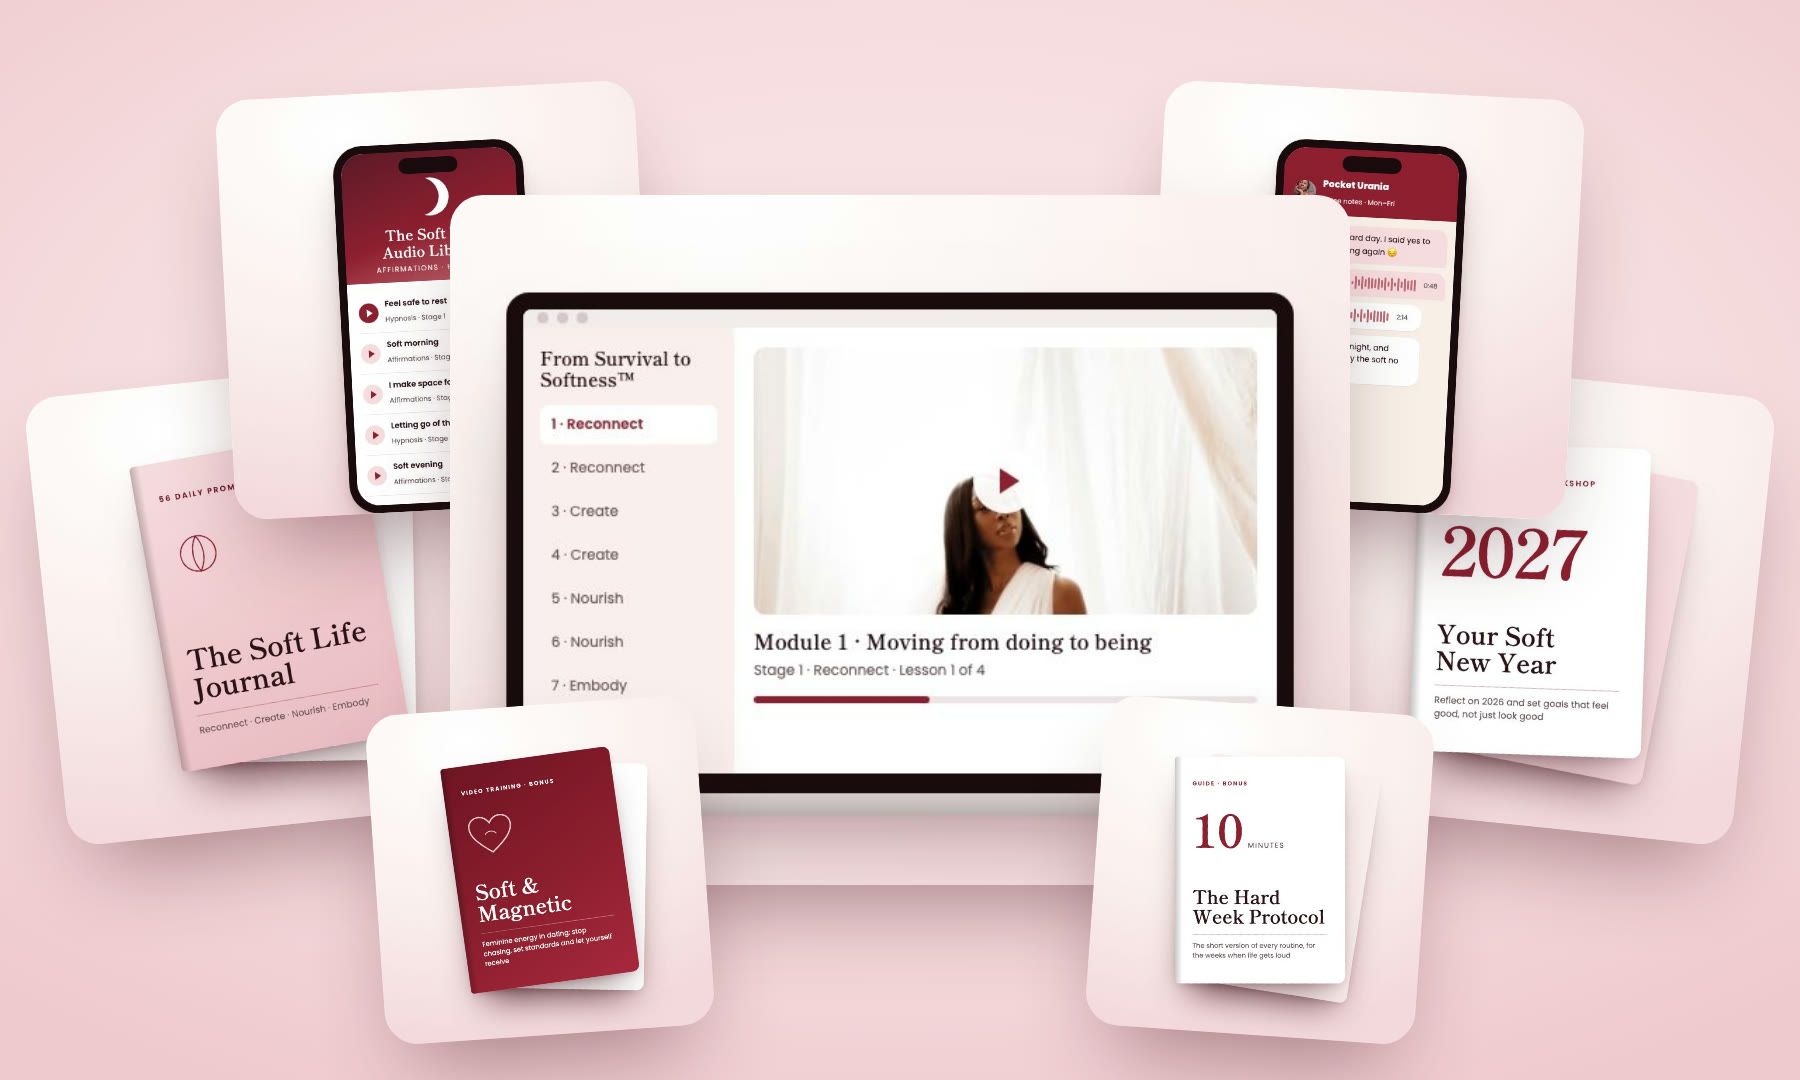
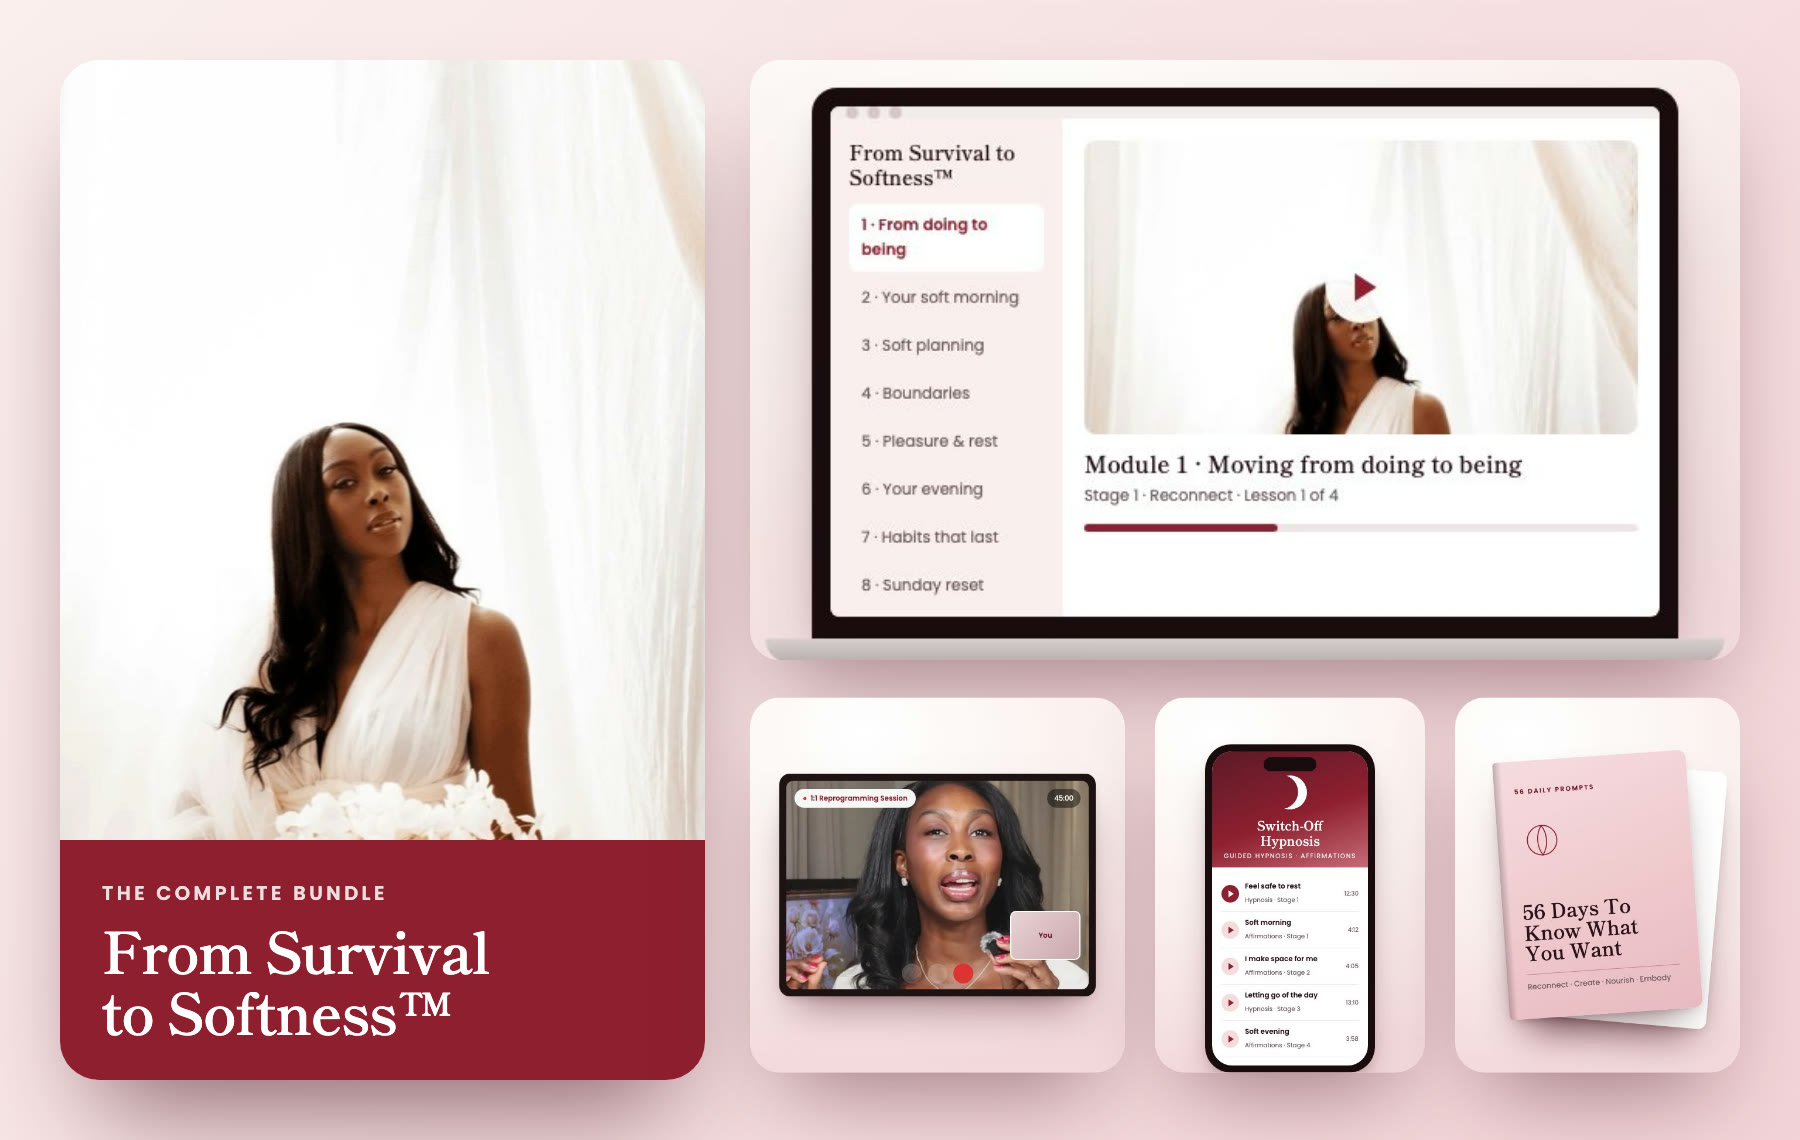
Benefit-led bonus names, Reprogramming Session, Josh-style label and gap

diff --git a/index.html b/index.html
@@ -35,7 +35,7 @@ p{margin:0 0 14px}
 .center{text-align:center}
 
 /* hero: centered like Josh's replay page, the video is the centre of the screen */
-.hero{padding:44px 0 56px;background:radial-gradient(1200px 520px at 50% -10%,#fbe7ea 0%,rgba(251,231,234,0) 70%)}
+.hero{padding:44px 0 34px;background:radial-gradient(1200px 520px at 50% -10%,#fbe7ea 0%,rgba(251,231,234,0) 70%)}
 .hero-in{text-align:center;max-width:980px}
 .kicker{font:500 13px/1.4 Poppins;letter-spacing:.14em;text-transform:uppercase;color:var(--red);margin:0 0 18px}
 .kicker i{font-style:normal;color:var(--rose);margin:0 6px}
@@ -215,7 +215,7 @@ footer{padding:30px 20px 44px;text-align:center;font-size:13px;color:var(--mute)
 
 <header class="hero">
   <div class="wrap hero-in">
-    <p class="kicker"><span class="long">From Survival to Softness™ <i>·</i> </span>8-week program <i>·</i> Starts Saturday 21 November</p>
+    <p class="kicker">Exclusive Message From Urania</p>
     <p class="kicker2">FAQ included below</p>
     <h1>Stop Living In Survival Mode: The 4-Stage Method That Helps You <em>Switch Off</em>, Put Yourself First &amp; Feel Soft And Feminine In Just 8 Weeks</h1>
     <p class="lead">…without giving up your ambition, your goals or the people who count on you.</p>
@@ -243,21 +243,21 @@ footer{padding:30px 20px 44px;text-align:center;font-size:13px;color:var(--mute)
 
       <div class="chk"><h3><span class="k">The 8-Week From Survival to Softness™ Program</span></h3><p>My signature program, where I take you through the 4 stages step by step: <b>Reconnect</b> (come back into your body with breathwork, EFT tapping and your Soft Morning Routine), <b>Create</b> (make space for yourself with the Soft Planning Method, a realistic weekly schedule and boundaries you can say out loud), <b>Nourish</b> (pleasure, rest, real me-time and an evening routine that helps you unwind) and <b>Embody</b> (habits without pressure, your Soft Sunday Reset and a plan for busy weeks). 8 modules, 6 live group coaching sessions with me, and you finish with your own Soft Life Blueprint. ($2,997 Value)</p></div>
 
-      <div class="chk"><h3><span class="k">BONUS #1:</span> A 45-Minute 1:1 Session With Me</h3><p>Just you and me. We look at where you are right now, what keeps you on hard mode and how to shape your Soft Life Blueprint around your real life. ($397 Value)</p></div>
+      <div class="chk"><h3><span class="k">BONUS #1:</span> Your Private 1:1 Subconscious Reprogramming Session With Me</h3><p>45 minutes, just you and me. Imagine the thing that's been holding you back, finally gone. You pick the topic: self-worth, receiving, love or money, and we work on the belief underneath it. ($397 Value)</p></div>
 
-      <div class="chk"><h3><span class="k">BONUS #2:</span> Pocket Urania <span class="only">First 7 women only</span></h3><p>8 weeks of voice-note access to me between the live sessions. When something comes up on a Tuesday, you don't have to wait for the next call. ($1,500 Value)</p></div>
+      <div class="chk"><h3><span class="k">BONUS #2:</span> Pocket Urania: Send Me A Voice Note Whenever You Need Me <span class="only">First 7 women only</span></h3><p>8 weeks of voice-note access to me between the live sessions. When something comes up on a Tuesday, you don't have to wait for the next call. ($1,500 Value)</p></div>
 
-      <div class="chk"><h3><span class="k">BONUS #3:</span> The Soft Life Audio Library</h3><p>New feminine energy affirmations for each stage, morning and evening, plus 4 guided hypnosis sessions to listen to before sleep. My guided meditations have over 1 million views on YouTube, and these are made only for this program. ($497 Value)</p></div>
+      <div class="chk"><h3><span class="k">BONUS #3:</span> Switch-Off Hypnosis: Fall Asleep Calm Instead Of Replaying Your To-Do List</h3><p>4 guided hypnosis sessions to listen to in bed, plus feminine energy affirmations for every stage, morning and evening. My guided meditations have over 1 million views on YouTube, and these are made only for this program. ($497 Value)</p></div>
 
-      <div class="chk"><h3><span class="k">BONUS #4:</span> Soft &amp; Magnetic: Feminine Energy In Dating</h3><p>How to stop chasing, set standards without being hard, and let yourself receive. For the woman who is single, dating or wants more softness in her relationship. ($297 Value)</p></div>
+      <div class="chk"><h3><span class="k">BONUS #4:</span> Soft &amp; Magnetic: How To Stop Chasing And Let Love Come To You</h3><p>How to stop chasing, set standards without being hard, and let yourself receive. For the woman who is single, dating or wants more softness in her relationship. ($297 Value)</p></div>
 
-      <div class="chk"><h3><span class="k">BONUS #5:</span> Your Soft New Year</h3><p>A guided reflection on the year you just had, and my live Feminine Goal Setting Workshop, so you start 2027 with goals that feel good, not just look good. ($297 Value)</p></div>
+      <div class="chk"><h3><span class="k">BONUS #5:</span> Start 2027 Soft: Set Goals That Don't Burn You Out</h3><p>A guided reflection on the year you just had, and my live Feminine Goal Setting Workshop, so you start 2027 with goals that feel good, not just look good. ($297 Value)</p></div>
 
-      <div class="chk"><h3><span class="k">BONUS #6:</span> The Soft Calendar Method</h3><p>I show you my own Google Calendar and how I plan my week with soft structure: deep work, walks, me-time and rest, all with room to breathe. ($47 Value)</p></div>
+      <div class="chk"><h3><span class="k">BONUS #6:</span> My Soft Calendar: Plan A Week That Finally Has Room For You</h3><p>I show you my own Google Calendar and how I plan my week with soft structure: deep work, walks, me-time and rest, all with room to breathe. ($47 Value)</p></div>
 
-      <div class="chk"><h3><span class="k">BONUS #7:</span> The Hard Week Protocol</h3><p>The 10-minute version of every routine, for the weeks when life gets loud, so one busy week never undoes everything you built. ($97 Value)</p></div>
+      <div class="chk"><h3><span class="k">BONUS #7:</span> The Hard Week Protocol: Stay Soft Even In Your Busiest Weeks</h3><p>The 10-minute version of every routine, for the weeks when life gets loud, so one busy week never undoes everything you built. ($97 Value)</p></div>
 
-      <div class="chk"><h3><span class="k">BONUS #8:</span> The Soft Life Journal</h3><p>56 prompts, one for every day of the 8 weeks, following the 4 stages. ($47 Value)</p></div>
+      <div class="chk"><h3><span class="k">BONUS #8:</span> 56 Days To Know What You Actually Want</h3><p>A journal prompt for every day of the 8 weeks, so you stop guessing what you need and start hearing yourself again. ($47 Value)</p></div>
 
       <div class="chk"><h3><span class="k">YOU ALSO GET:</span> The Soft Circle Community (Lifetime Access)</h3><p>Doing this alone is how most of us ended up in survival mode. When you join, you also get a place in the Soft Circle, my private community where you connect with the other women in the program, plus every lesson and recording for life.</p></div>
 
@@ -265,7 +265,7 @@ footer{padding:30px 20px 44px;text-align:center;font-size:13px;color:var(--mute)
         <p class="tv">Total Value <s>$6,176</s></p>
         <p class="np">Normal Price: $997</p>
         <p class="today">ONLY $697 TODAY</p>
-        <a class="btn wide" href="#checkout">CLAIM MY SPOT NOW<span class="anchor-in">One payment · secure checkout</span></a>
+        <a class="btn wide" href="#checkout">CLAIM MY SPOT NOW<span class="anchor-in">Normally $997 · Yours for $697</span></a>
         <p class="fine">Pocket Urania goes to the first 7 women who join.</p>
         <div class="dates">
           <div><span>Doors close</span><b>Wed 18 Nov</b></div>
@@ -306,10 +306,10 @@ footer{padding:30px 20px 44px;text-align:center;font-size:13px;color:var(--mute)
     <div class="faq-grid">
       <details open><summary>When does it start, and how long does it take?</summary><p>The program starts on Saturday 21 November, not on the day you join, and runs for 8 weeks until Saturday 16 January. After you join you get a welcome email with everything you need before we start. Each week you get the lessons for that stage, and we meet live 6 times. Plan for about 1 to 2 hours a week.</p></details>
       <details><summary>What if I can't make a live session?</summary><p>Every session is recorded and you keep lifetime access, so you can watch it when it suits you. You can also send me your question beforehand.</p></details>
-      <details><summary>Is this group coaching or private coaching?</summary><p>Both. The live sessions are with a small group of women, and every woman who joins also gets a 45-minute 1:1 session with me. The first 7 women also get Pocket Urania, my voice-note support between sessions.</p></details>
+      <details><summary>Is this group coaching or private coaching?</summary><p>Both. The live sessions are with a small group of women, and every woman who joins also gets a private 1:1 subconscious reprogramming session with me. The first 7 women also get Pocket Urania, my voice-note support between sessions.</p></details>
       <details><summary>I'm already so busy. How will I find the time?</summary><p>That's exactly who this program is for. Nothing here asks you to add more to your plate. We start by making space, and the Hard Week Protocol gives you a 10-minute version of everything for the weeks when life gets loud.</p></details>
-      <details><summary>What if I don't have the budget right now?</summary><p>I understand. I spent years trying to fix my exhaustion with one self-care routine after another, and nothing changed until I learned to feel safe in my own body. Today the program is $697 instead of $997, and that price is only for this round.</p></details>
-      <details><summary>I already watch your videos. Why join the program?</summary><p>Videos give you ideas, and the program gives you your own plan. Inside, you build your personal Soft Life Blueprint step by step, you get live coaching, a 1:1 session with me and support between sessions, so it doesn't stay a nice idea you forget by Monday.</p></details>
+      <details><summary>What if I don't have the budget right now?</summary><p>I understand. I spent years trying to fix my exhaustion with one self-care routine after another, and nothing changed until I learned to feel safe in my own body. Normally the program is $997, and right now it's yours for $697. That price is only for this round.</p></details>
+      <details><summary>I already watch your videos. Why join the program?</summary><p>Videos give you ideas, and the program gives you your own plan. Inside, you build your personal Soft Life Blueprint step by step, you get live coaching, a 1:1 reprogramming session with me and support between sessions, so it doesn't stay a nice idea you forget by Monday.</p></details>
       <details><summary>Is this only about feminine energy?</summary><p>No. Feminine energy is part of it, but this is also very practical: your morning, your week, your boundaries and your calendar. The inner work helps you know what you need, and the practical work makes room for it.</p></details>
       <details><summary>I'm not sure it's right for me. Can I talk to you first?</summary><p>Yes. Book a free call with me below and we'll see together whether it fits.</p></details>
     </div>
@@ -317,7 +317,7 @@ footer{padding:30px 20px 44px;text-align:center;font-size:13px;color:var(--mute)
 </section>
 
 <section class="end">
-  <a class="btn" href="#checkout">CLAIM MY SPOT NOW<span class="anchor-in">Today $697 · normally $997 · starts Sat 21 Nov</span></a>
+  <a class="btn" href="#checkout">CLAIM MY SPOT NOW<span class="anchor-in">Normally $997 · Yours for $697</span></a>
   <p class="call">Not sure it's for you? <a href="https://calendly.com/coachurania/survial-to-softness-clarity-call">Book a free call with me</a></p>
 </section>
 
